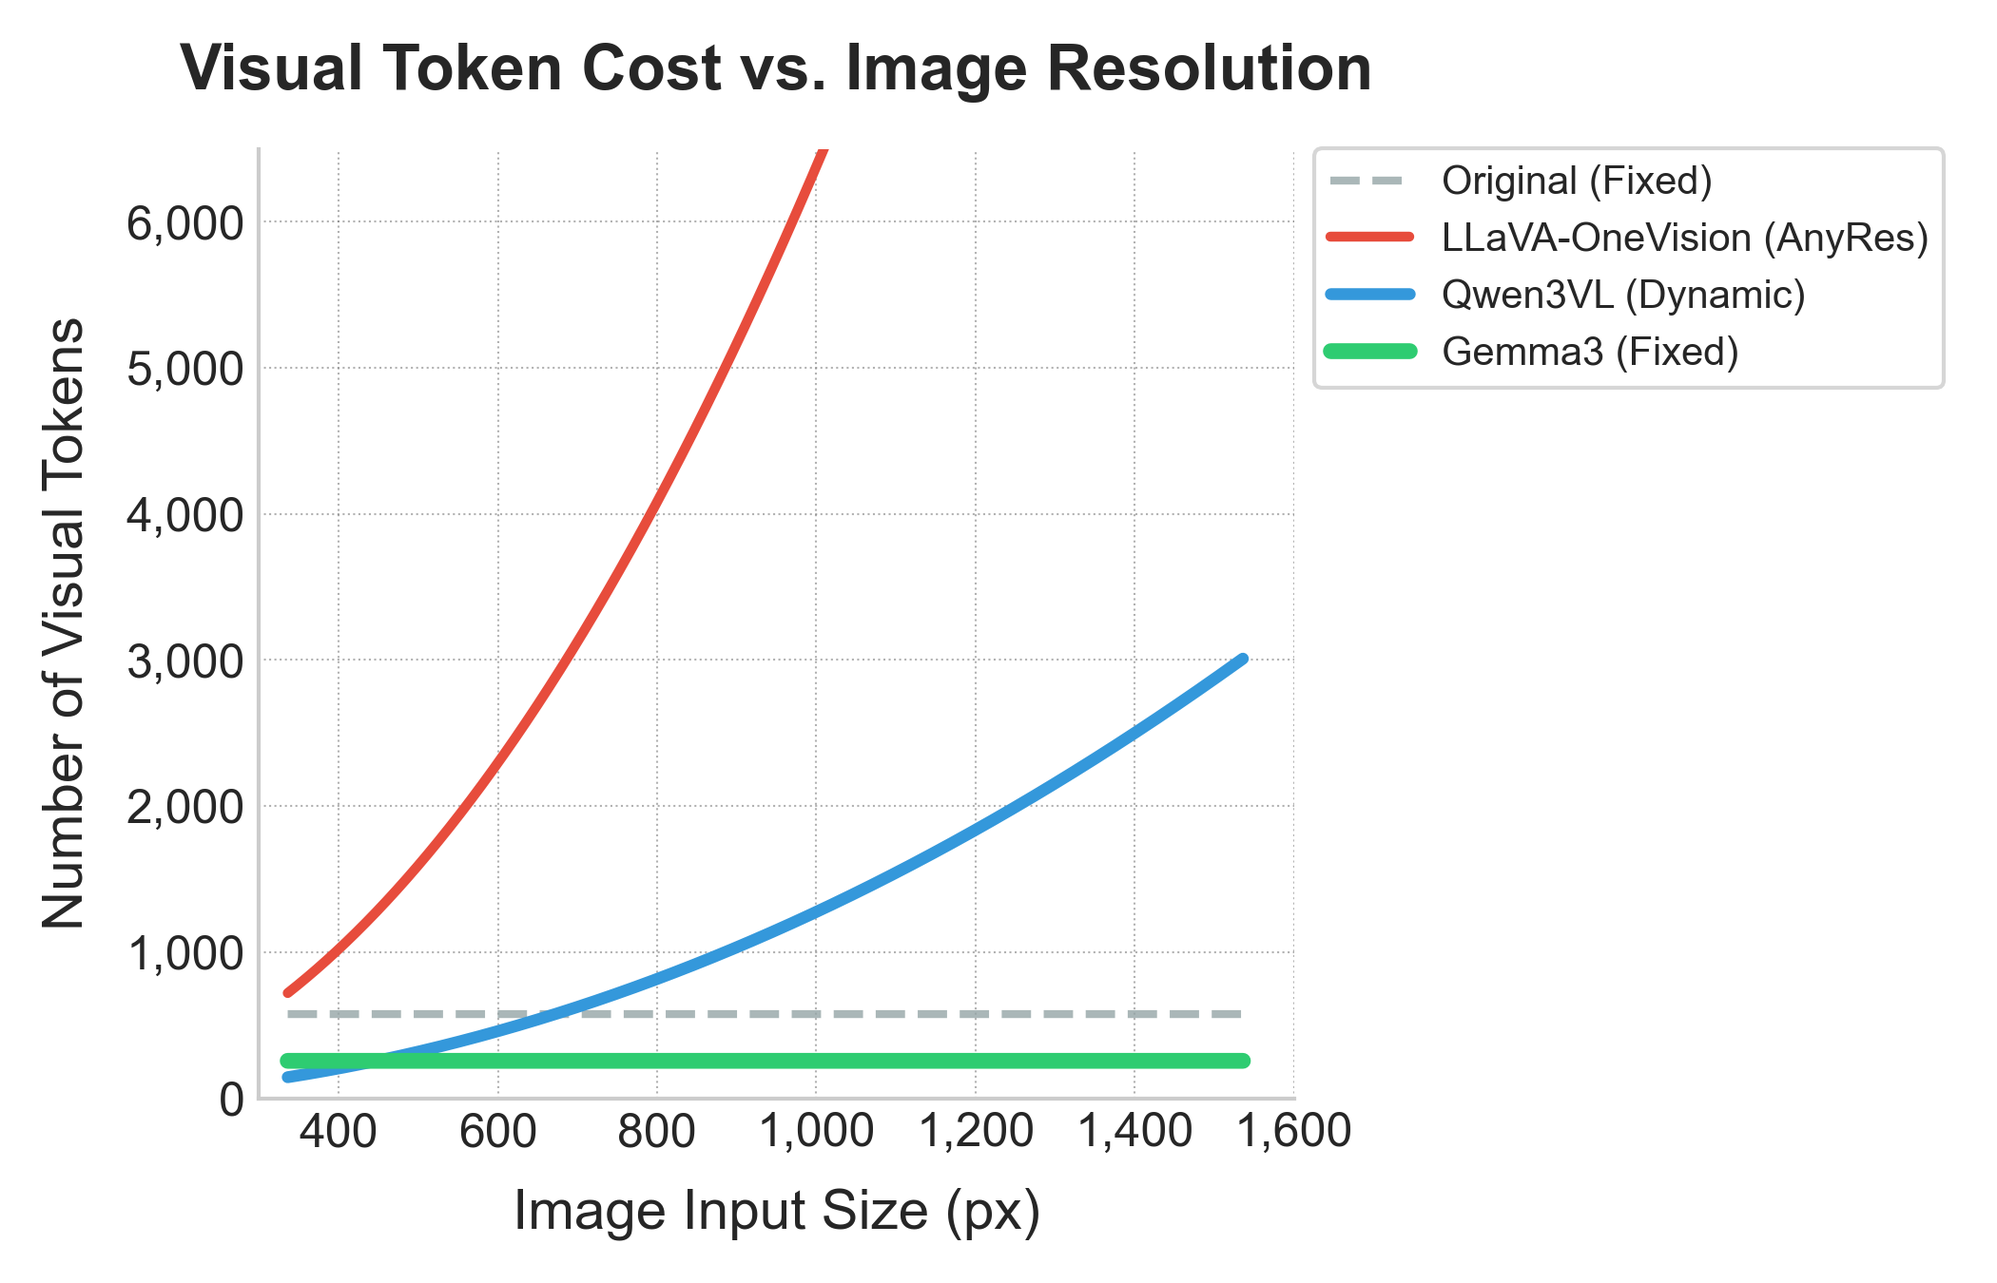
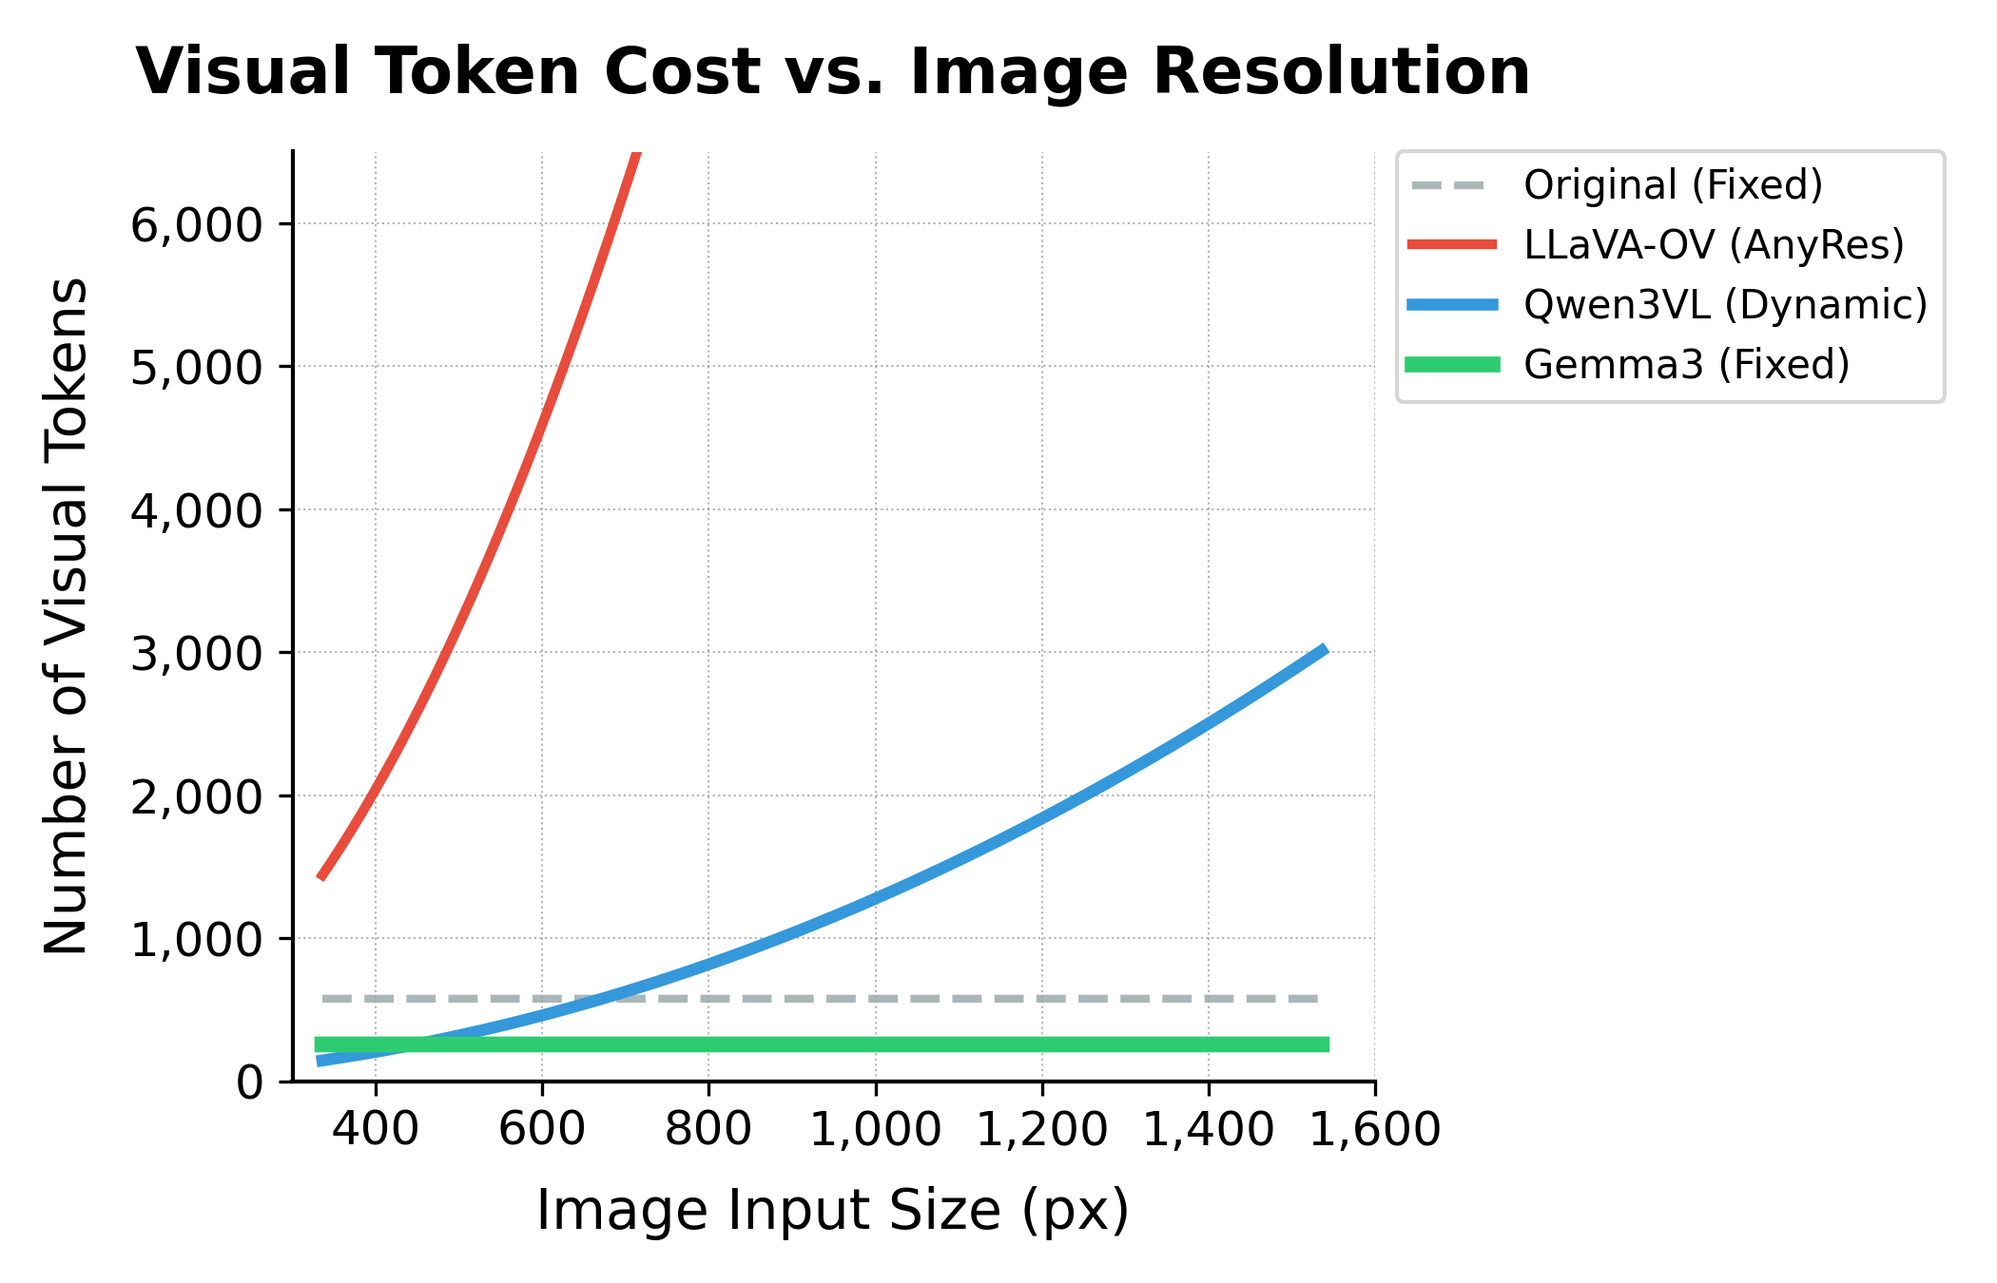
Add: added paper + night mode

diff --git a/_posts/2026-01-11-demystifying1.md b/_posts/2026-01-11-demystifying1.md
@@ -51,12 +51,30 @@ _styles: >
         });"></script>
 
 ## Introduction
-This is the first blogpost of the series `De-mistifying Multimodal Learning`. 
-Today we look into the Hiddent computational overhead of Vision Language Modelling, represented by **Visual Tokens** (VT). <br>
-We'll start with a [preamble](#preamble-how-do-llms-see), giving context on how Vision Language Models (VLMs) architectural components, how they enable Large Language Models (LLMs) to understand image content and how we define Visual Tokens in the first place. <br>
-In the [second part](#calculating-visual-tokens) we discover **how we estimate the number of VT** without needing for model inferencing, and find out how different architectural strategies in state-of-the-art models affect this count. <br>
-[Finally](#visual-token-count-impact), we dive deeper into the effects of the amount of Visual Tokens. Trying to understand their importance, especially tied to inference optimisation.
+In the shift from text-only models to Vision Language Models (VLMs), we often talk about "parameters" and "emergent reasoning." However, there is a hidden currency that governs the performance, cost, and feasibility of these systems: **Visual Tokens (VT)**.
 
+While Large Language Models (LLMs) are natively blind, they "see" by consuming images that have been decomposed, projected, and flattened into a format they can digest. This transformation isn't free. Whether you are building a real-time assistant or an OCR pipeline, the number of visual tokens your model generates is the primary lever for inference latency, VRAM consumption, and context window management. Understanding the computational overhead of these tokens is no longer just an academic exercise—it is a production necessity.
+
+In this first installment of our series, De-mystifying Multimodal Learning, we break down the mechanics of how images become language-compatible vectors. Specifically, we will cover:
+
+What we will cover:<br>
+- [Preamble: How do LLMs see?](#preamble-how-do-llms-see): An architectural deep dive deep into the anatomy of Vision Language Models (VLMs) and the birth of the Visual Token.
+
+- [Calculating Visual Tokens](#calculating-visual-tokens): Present a practical guide to estimating token counts across different SOTA strategies—from Qwen’s dynamic merging to LLaVA’s high-resolution grids—without running a single line of inference.
+
+- [Impact of Token Count](#visual-token-count-impact): Analyse of how these tokens impact the "three pillars" of production: Context Windows, Latency, and VRAM.
+
+<a id="overview"></a>
+<div class="row mt-3">
+  <div class="col-12">
+    <div class="mx-auto text-center" style="width: 80%;">
+      {% include figure.liquid loading="eager" path="./assets/img/vlm_tokens.png" class="img-fluid rounded z-depth-1" %}
+      <div class="caption text-center mt-2">
+        Figure 1: Overview of the Vision Token count estimation process. The estimated counts are done based on Spatial Merge Size of 2, AnyResolution of 3x3 windows and Spatial Average Pooling of size 4. C, H, W represent the channels, heigth and width of the image, whereas N and P are the number of patches and the patch dimension respectively. F and D are embedding dimension sizes outputted from the vision encoder and the MLP and V is the number of visual tokens, which depends on the type of encoder, MLP and the re-sizing of images, i.e. the actual H and W. In <a href="#calculating-visual-tokens">the section below</a>, we dive deeper into the difference between each of the models reported on the right/
+      </div>
+    </div>
+  </div>
+</div>
 
 <br>
 
@@ -64,9 +82,10 @@ In the [second part](#calculating-visual-tokens) we discover **how we estimate t
 
 It is clear that LLMs cannot see images, so how do we allow them to understand image inputs in the first place? 
 Architecturally Vision Language Models are constitued by three major components:
-- Vision Encoders (VE), usually a CLIP-like image encoder [1](#clip-2021), [2](#sigmoid-loss-2023), [3](#qwen2-5-vl-2025), but it can vary in architecture and training style. See [this](https://jina.ai/vision-encoder-survey.pdf) extensive survey for more information . 
-- Modality Connectors, often simple Multi-Layer Perceptron, with some architectures employing attention blocks [4](#blip2-2023) and other alternatives [5](#cambrian-1-2024).  
-- Large Language Models (LLMs) 
+- Vision Encoders (VE), usually a CLIP-like image encoder ([Dosovitskiy et al., 2021](#vit-2021),[Radford et al., 2021](#clip-2021), [Zhai et al., 2023](#sigmoid-loss-2023), [Bai et al., 2025](#qwen2-5-vl-2025)), but it can vary in architecture and training style. See [this](https://jina.ai/vision-encoder-survey.pdf) extensive survey for more information . 
+- Modality Connectors, often simple Multi-Layer Perceptron, with some architectures employing attention blocks ([Li et al., 2023](#blip2-2023)) and other alternatives ([Tong et al., 2024](#cambrian-1-2024), [Nulli et al,. 2025](#nulliobjectguided-2025)).  
+- Large Language Models (LLMs) ([Abhimanyu, et al. 2024](#llama-3-herd-2024)).
+
 
 Let $\mathbf{X} \in \mathbb{R}^{C \times H\times W} $ be an image and $t \in  \Sigma$ be a text input, where $\Sigma$ is the input space of character sequences.
 Furthermore let $f_{v\theta}$ be a contrastive pre-trained Vision Encoder, defined as: $$f_{v\theta}: \mathbb{R}^{C \times H \times W} \rightarrow \mathbb{R}^{V \times F},$$,
@@ -84,7 +103,7 @@ Practically, the processing flow of $f_{v\theta}$ is broken down into:
 #### 1. Patch Partitioning
 
 The first step is breaking the high-resolution image $\mathbf{X}$ into a grid of fixed-size patches.
-Assuming our image has $336 \times 336$ pixels and we use a patch size of $14 \times 14$, we divide the image into $24 \times 24 = 576$ distinct squares.
+Assuming our image has $336 \times 336$ pixels and we use a patch size of $P=14$, in standard vision encoders like CLIP, we divide the image into $24 \times 24 = 576$ distinct squares.
 Mathematically, the image is reshaped from $\mathbf{X} \in \mathbb{R}^{C \times H \times W}$ into a sequence of flattened 2D patches $\mathbf{x}_p \in \mathbb{R}^{N \times (P^2 \cdot C)}$, where $N$ is the total number of patches.
 
 #### 2. Linear Projection and Position Embeddings
@@ -96,12 +115,13 @@ Given the lack of spatial prior of Vision Transformers (ViT) (see [here](https:/
 
 The resulting vectors are passed through several Transformers Layers consisting of Multi-Head Self-Attention and MLPs, whose output is the representation of a patch within the context of the whole image. 
 
-This full process produces $\mathbf{X'} = f_{v\theta}(\mathbf{X}) \in \mathbb{R}^{V\times F}$, we obtain a sequence of vectors. 
+This full process produces $\mathbf{X'} = f_{v\theta}(\mathbf{X}) \in \mathbb{R}^{V\times F}$, we obtain a sequence of vectors with $F$ being the embedding dimension. 
 
 #### Connecting Modalities
 
 Getting the actual vision tokens from $\mathbf{X'}$ is just a matter of passing it through a connector, obtaining 
 $$ \mathbf{VT} = m_\gamma(\mathbf{X}') \in \mathbb{R}^{V \times D} $$
+where $D$ is the expected embedding input size of $g_{\phi}$.
 
 <br>
 
@@ -114,7 +134,7 @@ Now that we know what Visual Tokens are, you might wonder
 
 #### Original Recipe
 
-Within the first VLM architectures [5](#visual-instruction-tuning-2023) this estimation is straightforward. 
+Within the first VLM architectures ([Liu et al., 2023](#visual-instruction-tuning-2023)) this estimation is straightforward. 
 First generation VLMs relied on Vision Encoder which have a fixed input resolution and a patch size ($PS$). What this means is that whatever its input size, the picture would always be re-scaled to $H \times W$. This implies that, given both $H$ and $W$, the final number of visual tokens, i.e. dimenson $V$ 
 <p align="center"> \[ V_{\text{original}} = (H/PS) \times (W/PS)\] </p>
 
@@ -130,14 +150,14 @@ However, simply making vision encoders which could support higher resolutions wa
 #### Modern Approaches 
 
 **Strategy A: The Dynamic Merger**
-We have to start with the game-changers: the QwenVL-2.5 and 3 series 3. These models ditched the "fixed resolution" rule entirely. Instead of squashing every image into a square, they process images at their native resolution.This sounds great, but it complicates our math: if the image size varies, so does the token count. To calculate it, we need a specific value from the model's config.json called the Spatial Merge Size ($SMS$). Think of $SMS$ as a compression factor—it tells the model how many raw image patches to pool together into one visual token.With this in mind, our formula becomes a bit more dynamic:
+We have to start with the game-changers: the QwenVL-2.5 and 3 series ([Bai et al. 2025](#qwen2-5-vl-2025), [QwenTeam, 2025](#qwen3-vl-2025)). These models ditched the "fixed resolution" rule entirely. Instead of squashing every image into a square, they process images at their native resolution. This sounds great, but it complicates our math: if the image size varies, so does the token count. To calculate it, we need a specific value from the model's config.json called the Spatial Merge Size ($SMS$). Think of $SMS$ as a compression factor—it tells the model how many raw image patches to pool together into one visual token.With this in mind, our formula becomes a bit more dynamic:
 
 <p align="center"> \[ V_{\text{Qwen3}} = (H / (PS \cdot SMS)) \times (W/ (PS \cdot SMS)) \] </p>
 
 The Takeaway: You get **perfect aspect ratios without distortion**. The catch? You need to be careful. Large images (or several of them) can silently eat up your context window much faster than you expect.
 
 **Strategy B: The Multi-Grid / AnyRes** 
-Around the same period LLaVA-Next/OneVision [6](#llava-next-2024) came up with a clever, yet expensive encoding technique called "Dynamic-High Resolution"/"Any Resolution". Depicted in [Figure 2](#high_res), it consists of splitting the image into $k\times k$ grids, with $k \in \{1, 9\}$ before the vision encoding.
+Around the same period LLaVA-Next/OneVision ([Liu et al., 2024](#llava-next-2024), [Li et al., 2024b](#llavonevision-2024)) came up with a clever, yet expensive encoding technique called "Dynamic-High Resolution"/"Any Resolution". Depicted in [Figure 2](#high_res), it consists of splitting the image into $k\times k$ grids, with $k \in \{1, 9\}$ before the vision encoding.
 This means repeating the encoding process $(k \times k) + 1$ times, with the 1 being the picture in its entirety. 
 
 <a id="high_res"></a>
@@ -146,12 +166,11 @@ This means repeating the encoding process $(k \times k) + 1$ times, with the 1 b
     <div class="mx-auto text-center" style="width: 80%;">
       {% include figure.liquid loading="eager" path="./assets/img/high_res.png" class="img-fluid rounded z-depth-1" %}
       <div class="caption text-center mt-2">
-        Figure 2: Illustration of Dynamic High Resolution on 2x2 grid. 
+        Figure 2: Illustration of Dynamic High Resolution on 2x2 grid from <a href="#llava-next-2024">LLaVA-NeXT</a> paper. 
       </div>
     </div>
   </div>
 </div>
-
 
 Although this results higher detail understanding given the entire focus of the encoder on smaller portions of the image, it also most crucially implies an enormous increase in Visual Token count. Given the calculations in the [original recipe](#original-recipe), we have 
 
@@ -159,9 +178,8 @@ Although this results higher detail understanding given the entire focus of the 
 
 In a couple of words a big trade-off: <u>Massive detail vs. Massive token count.</u>
 
-
 **Strategy C: The Fixed Downsampler**
-Gemma3 [7](#gemma-3-2025) family of models, the most recent open source VLM from gdm also employes a fixed input sized Vision Encoder (SigLIP [8](#siglip-2024)).
+Gemma3 ([Gemma-Team, 2025](#gemma-3-2025)) family of models, the most recent open source VLM from gdm also employes a fixed input sized Vision Encoder SigLIP ([Zhai et al., 2024](#siglip-2024)).
 
 The main difference between their technique and [Strategy A](#Strategy-a-The-Dynamic-Merger) is the easy but clever solution to handle higher resolution images, applying a spatial average pooling and therefore increasing the resizing input size of the model to 896. Thanks to the pooling, this yields a fixed amount of visual tokens which corresponds to 
 
@@ -177,11 +195,13 @@ A common denominator in all of these is the special tokens, which are added for 
     <div class="mx-auto text-center" style="width: 60%;">
       {% include figure.liquid loading="eager" path="./assets/img/token_comparison_paper_revised.png" class="img-fluid rounded z-depth-1" %}
       <div class="caption text-center mt-2">
-        Figure 2: We report the increase of Visual token count given the image resolution input. The image is assumed AnyRes assumes a 2x2 grid and the SMS and pooling are equal to 2. 
+        Figure 2: We report the increase of Visual token count given the image resolution input. The image is assumed AnyRes assumes a 3x3 grid and the SMS and pooling are equal to 2. 
       </div>
     </div>
   </div>
 </div>
+
+<br>
 
 ## Visual Token Count Impact
 
@@ -194,7 +214,7 @@ The answer lies in the constraints of production environments: **Context Windows
 
 **1. The Context Window Budget**
 
-Every LLM has a hard limit on its input size, denoted as the Context Window ($L_{\text{max}}$). In text-only models, this budget is consumed solely by the system prompt and user history. In VLMs, Visual Tokens consume this budget aggressively. If we denote the available context for reasoning and history as $C_{\text{text}}$, the relationship is effectively zero-sum:$$C_{\text{text}} = L_{\text{max}} - \sum_{i=1}^{N} V_{i}$$ 
+Every LLM has a hard limit on its input size, denoted as the Context Window ($L_{\text{max}}$). In text-only models, this budget is consumed solely by the system prompt, user history and input prompt. In VLMs, Visual Tokens consume this budget aggressively. If we denote the available context for reasoning and history as $C_{\text{text}}$, the relationship is effectively zero-sum: $$C_{\text{text}} = L_{\text{max}} - \sum_{i=1}^{N} V_{i}$$ 
 where $N$ is the number of images.
 
 For a "Strategy B" model (like LLaVA-Next) using a $3 \times 3$ grid, a single image might consume $\approx 2900$ tokens. If you are serving a model with a 4k or 8k context limit, a single image can consume 30-70% of your entire input capacity. 
@@ -285,13 +305,13 @@ Visual Tokens (VT) are the bridge between the image and language world, but they
 Multimodal learning is evolving rapidly, but the fundamental constraint remains: compute is finite. Mastering the math of Visual Tokens is the first step toward mastering VLM efficiency.
 
 
-## Additional Questions to Answer
+<!-- ## Additional Questions to Answer -->
 
-D. What is the cost trade-off?
+<!-- D. What is the cost trade-off? -->
 
-Context: LLaVA-OneVision uses many more tokens.
+<!-- Context: LLaVA-OneVision uses many more tokens. -->
 
-Question: "If Model A uses 256 tokens and Model B uses 2,800 tokens for the same image, what is the impact on 'Time to First Token' (latency) and VRAM?"
+<!-- Question: "If Model A uses 256 tokens and Model B uses 2,800 tokens for the same image, what is the impact on 'Time to First Token' (latency) and VRAM?" -->
 
 
 
@@ -308,6 +328,8 @@ url={https://matteonulli.github.io/blog/2026/demystifying1/}
 }
 ```
 
+<br>
+
 **References**
 
 <a id="conme-2024">Huang Irene, Lin Wei, Mirza M. Jehanzeb, Hansen Jacob A., Doveh Sivan, Butoi Victor Ion, Herzig Roei, Arbelle Assaf, Kuehne Hilde, Darrell Trevor, Gan Chuang, Oliva Aude, Feris Rogerio, Karlinsky Leonid. (2024). Conme: Rethinking Evaluation of Compositional Reasoning for Modern VLMs. arXiv preprint arXiv:2406.08164.</a>
@@ -319,8 +341,10 @@ url={https://matteonulli.github.io/blog/2026/demystifying1/}
 <a id="llavonevision-2024">Bo Li, Yuanhan Zhang, Dong Guo, Renrui Zhang, Feng Li, Hao Zhang, Kaichen Zhang, Peiyuan Zhang, Yanwei Li, Ziwei Liu, and Chunyuan Li. 2024a. Llava-onevision: Easy visual task transfer. Preprint,
 arXiv:2408.03326.</a>
 
-
 <a id="qwen2-5-vl-2025">Bai Shuai, Chen Keqin, Liu Xuejing, Wang Jialin, Ge Wenbin, Song Sibo, Dang Kai, Wang Peng, Wang Shijie, Tang Jun, Zhong Humen, Zhu Yuanzhi, Yang Mingkun, Li Zhaohai, Wan Jianqiang, Wang Pengfei, Ding Wei, Fu Zheren, Xu Yiheng, Ye Jiabo, Zhang Xi, Xie Tianbao, Cheng Zesen, Zhang Hang, Yang Zhibo, Xu Haiyang, Lin Junyang. (2025). Qwen2.5-VL Technical Report. arXiv preprint arXiv:2502.13923.</a>
+
+<a id="qwen3-vl-2025">QwenTeam. 2025. Qwen3-vl: Sharper vision, deeper
+thought, broader action.</a>
 
 <a id="internvl2-2024">OpenGVLab-Team. (2024). InternVL2: Better Than the Best—Expanding Performance Boundaries of Open-Source Multimodal Models with the Progressive Scaling Strategy. Blog post. URL https://internvl.github.io/blog/2024-07-02-InternVL-2.0/.</a>
 
@@ -329,6 +353,8 @@ arXiv:2408.03326.</a>
 <a id="bags-of-words-vlms-2023">Yuksekgonul Mert, Bianchi Federico, Kalluri Pratyusha, Jurafsky Dan, Zou James. (2023). When and Why Vision-Language Models Behave Like Bags-of-Words, and What to Do About It? arXiv preprint arXiv:2210.01936.</a>
 
 <a id="icl-compositional-vlms-2024">Nulli Matteo, Ibrahimi Anesa, Pal Avik, Lee Hoshe, Najdenkoska Ivona. (2024). In-Context Learning Improves Compositional Understanding of Vision-Language Models. In ICML 2024 Workshop on Foundation Models in the Wild. arXiv preprint arXiv:2407.15487.</a>
+
+<a id="nulliobjectguided-2025">Matteo Nulli, Ivona Najdenkoska, Mohammad Mahdi Derakhshani, and Yuki M Asano. 2025. Objectguided visual tokens: Eliciting compositional reasoning in multimodal language models. In EurIPS 2025 Workshop on Principles of Generative Modeling (PriGM)</a>
 
 <a id="vismin-2025">Awal Rabiul, Ahmadi Saba, Zhang Le, Agrawal Aishwarya. (2025). Vismin: Visual Minimal-Change Understanding. arXiv preprint arXiv:2407.16772.</a>
 

diff --git a/_posts/2026-01-05-vlmsecom.md b/_posts/2026-01-05-vlmsecom.md
@@ -1,11 +1,11 @@
 ---
 layout: post
 title: "Adapting Vision-Language Models for E-commerce Understanding at Scale"
-date: 2026-01-30 14:24:00
+date: 2026-02-30 14:24:00
 description: E-commerce adaptation of SOTA VLMs preserving general capabilities
 tags: Multimodal-Learning Vision-Language-Modelling E-commerce Model-Adaptation VLMs Benchmarking
 # categories: Multimodal-Learning
-thumbnail: assets/img/ecomvlm4.png
+thumbnail: assets/img/ecomvlm5.png
 mathjax: true
 math: true
 ---

diff --git a/_posts/2024-07-26-earlyexit.md b/_posts/2024-07-26-earlyexit.md
@@ -5,7 +5,7 @@ date: 2024-11-26 09:10:45
 description: Efficiency-focused early exiting, vocabulary pruning, and contrastive decoding for LLM inference
 tags: Inference-Optimisation Efficiency LLMs Early-Exiting Contrastive-Decoding
 # categories: LLMs
-thumbnail: assets/img/early_exit/softmax_shrink.jpeg
+thumbnail: assets/img/early_exit/softmax_shrink_pres.png
 mathjax: true
 math: true
 importance: 2  # 1 will appear first
